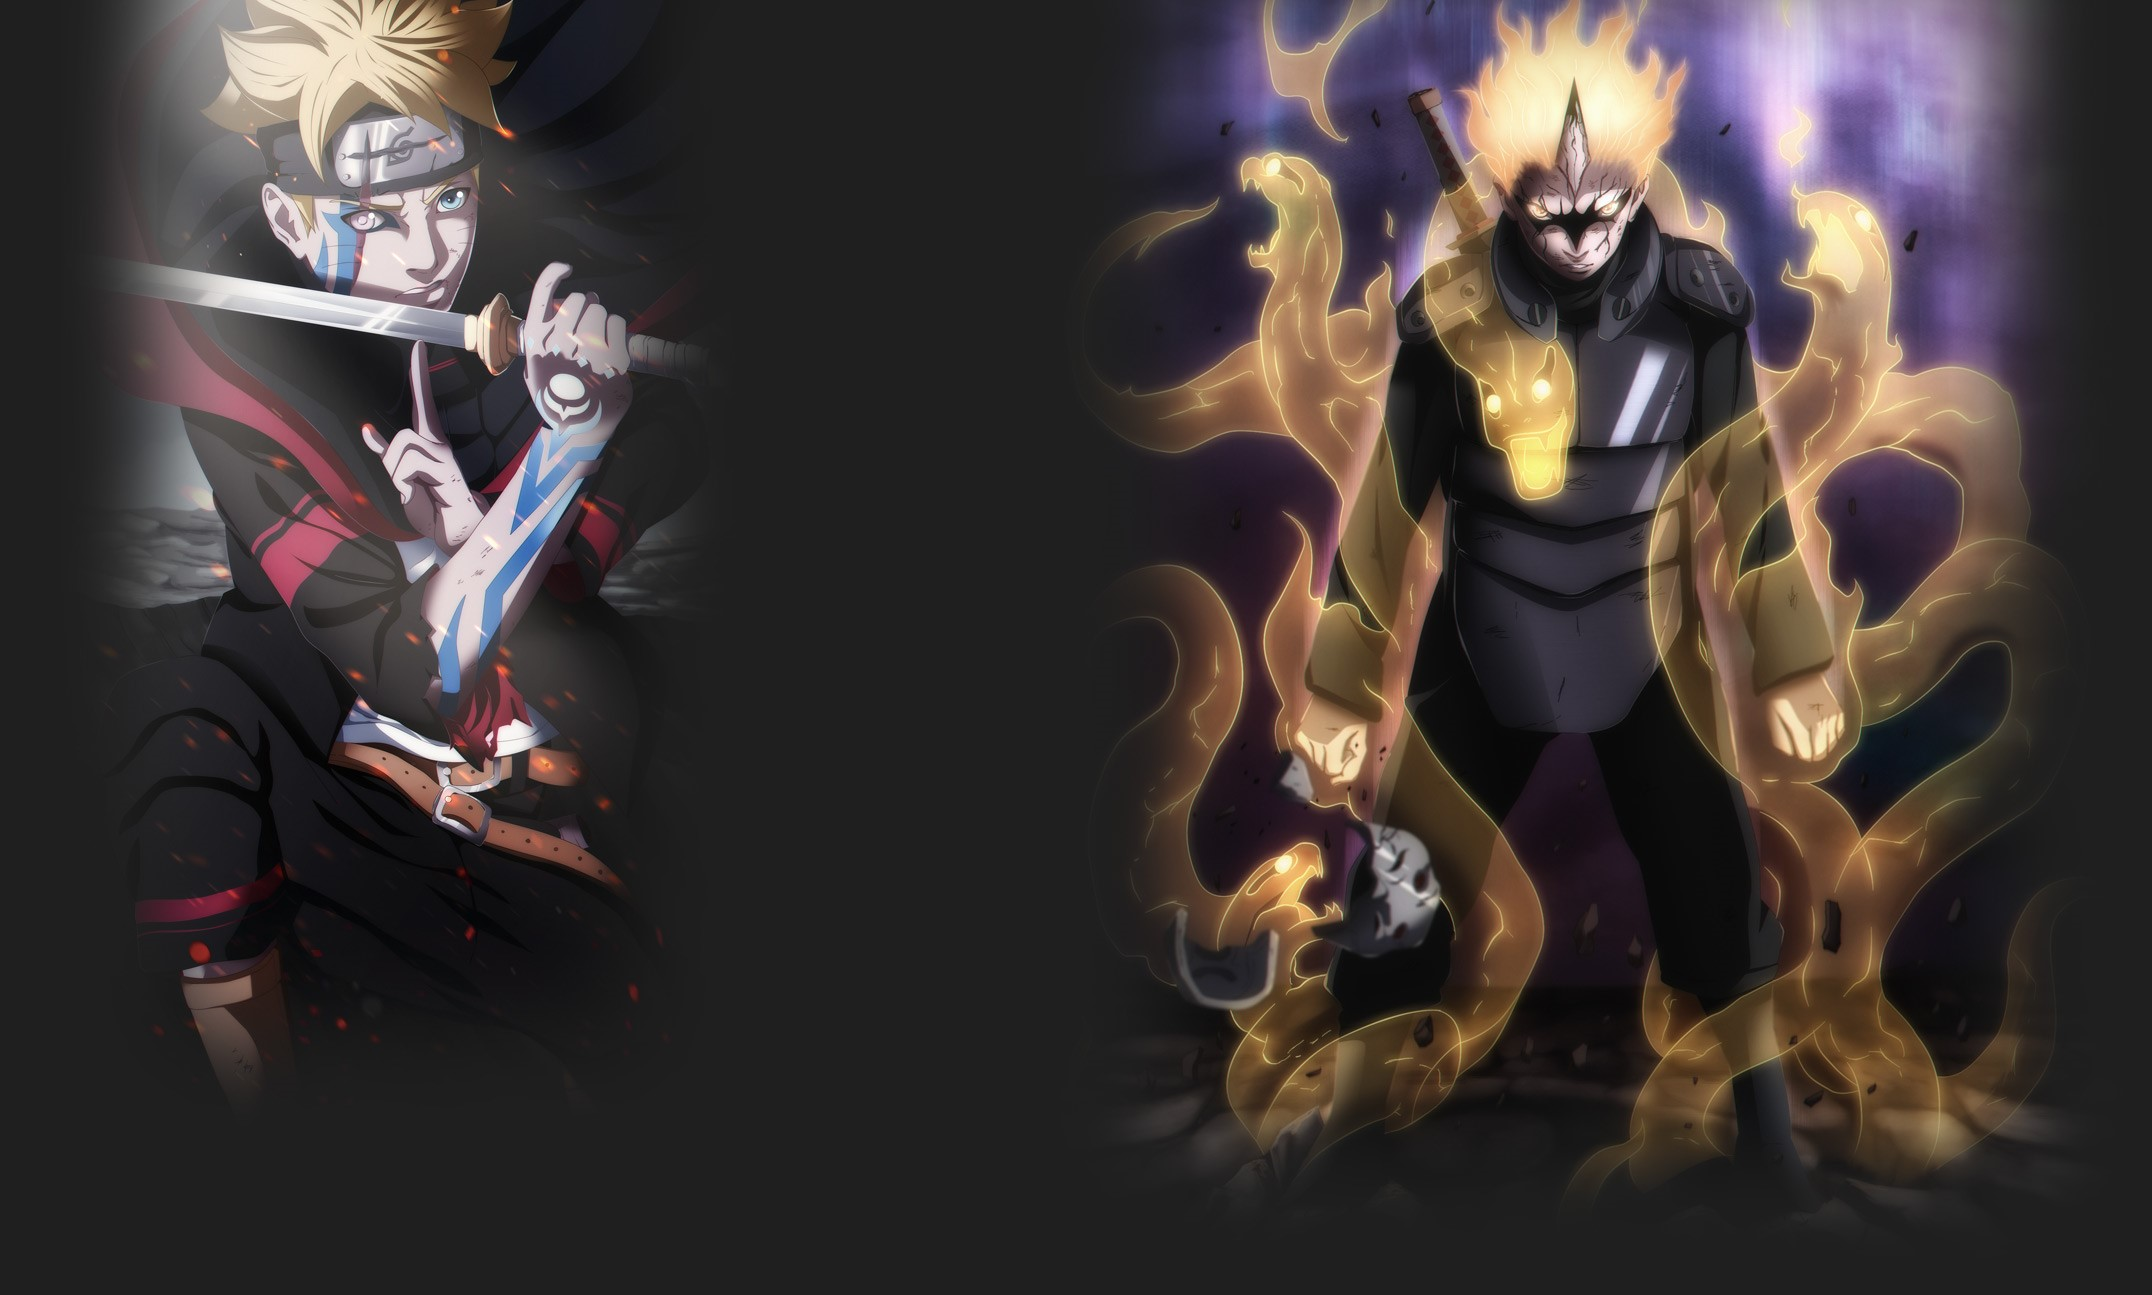
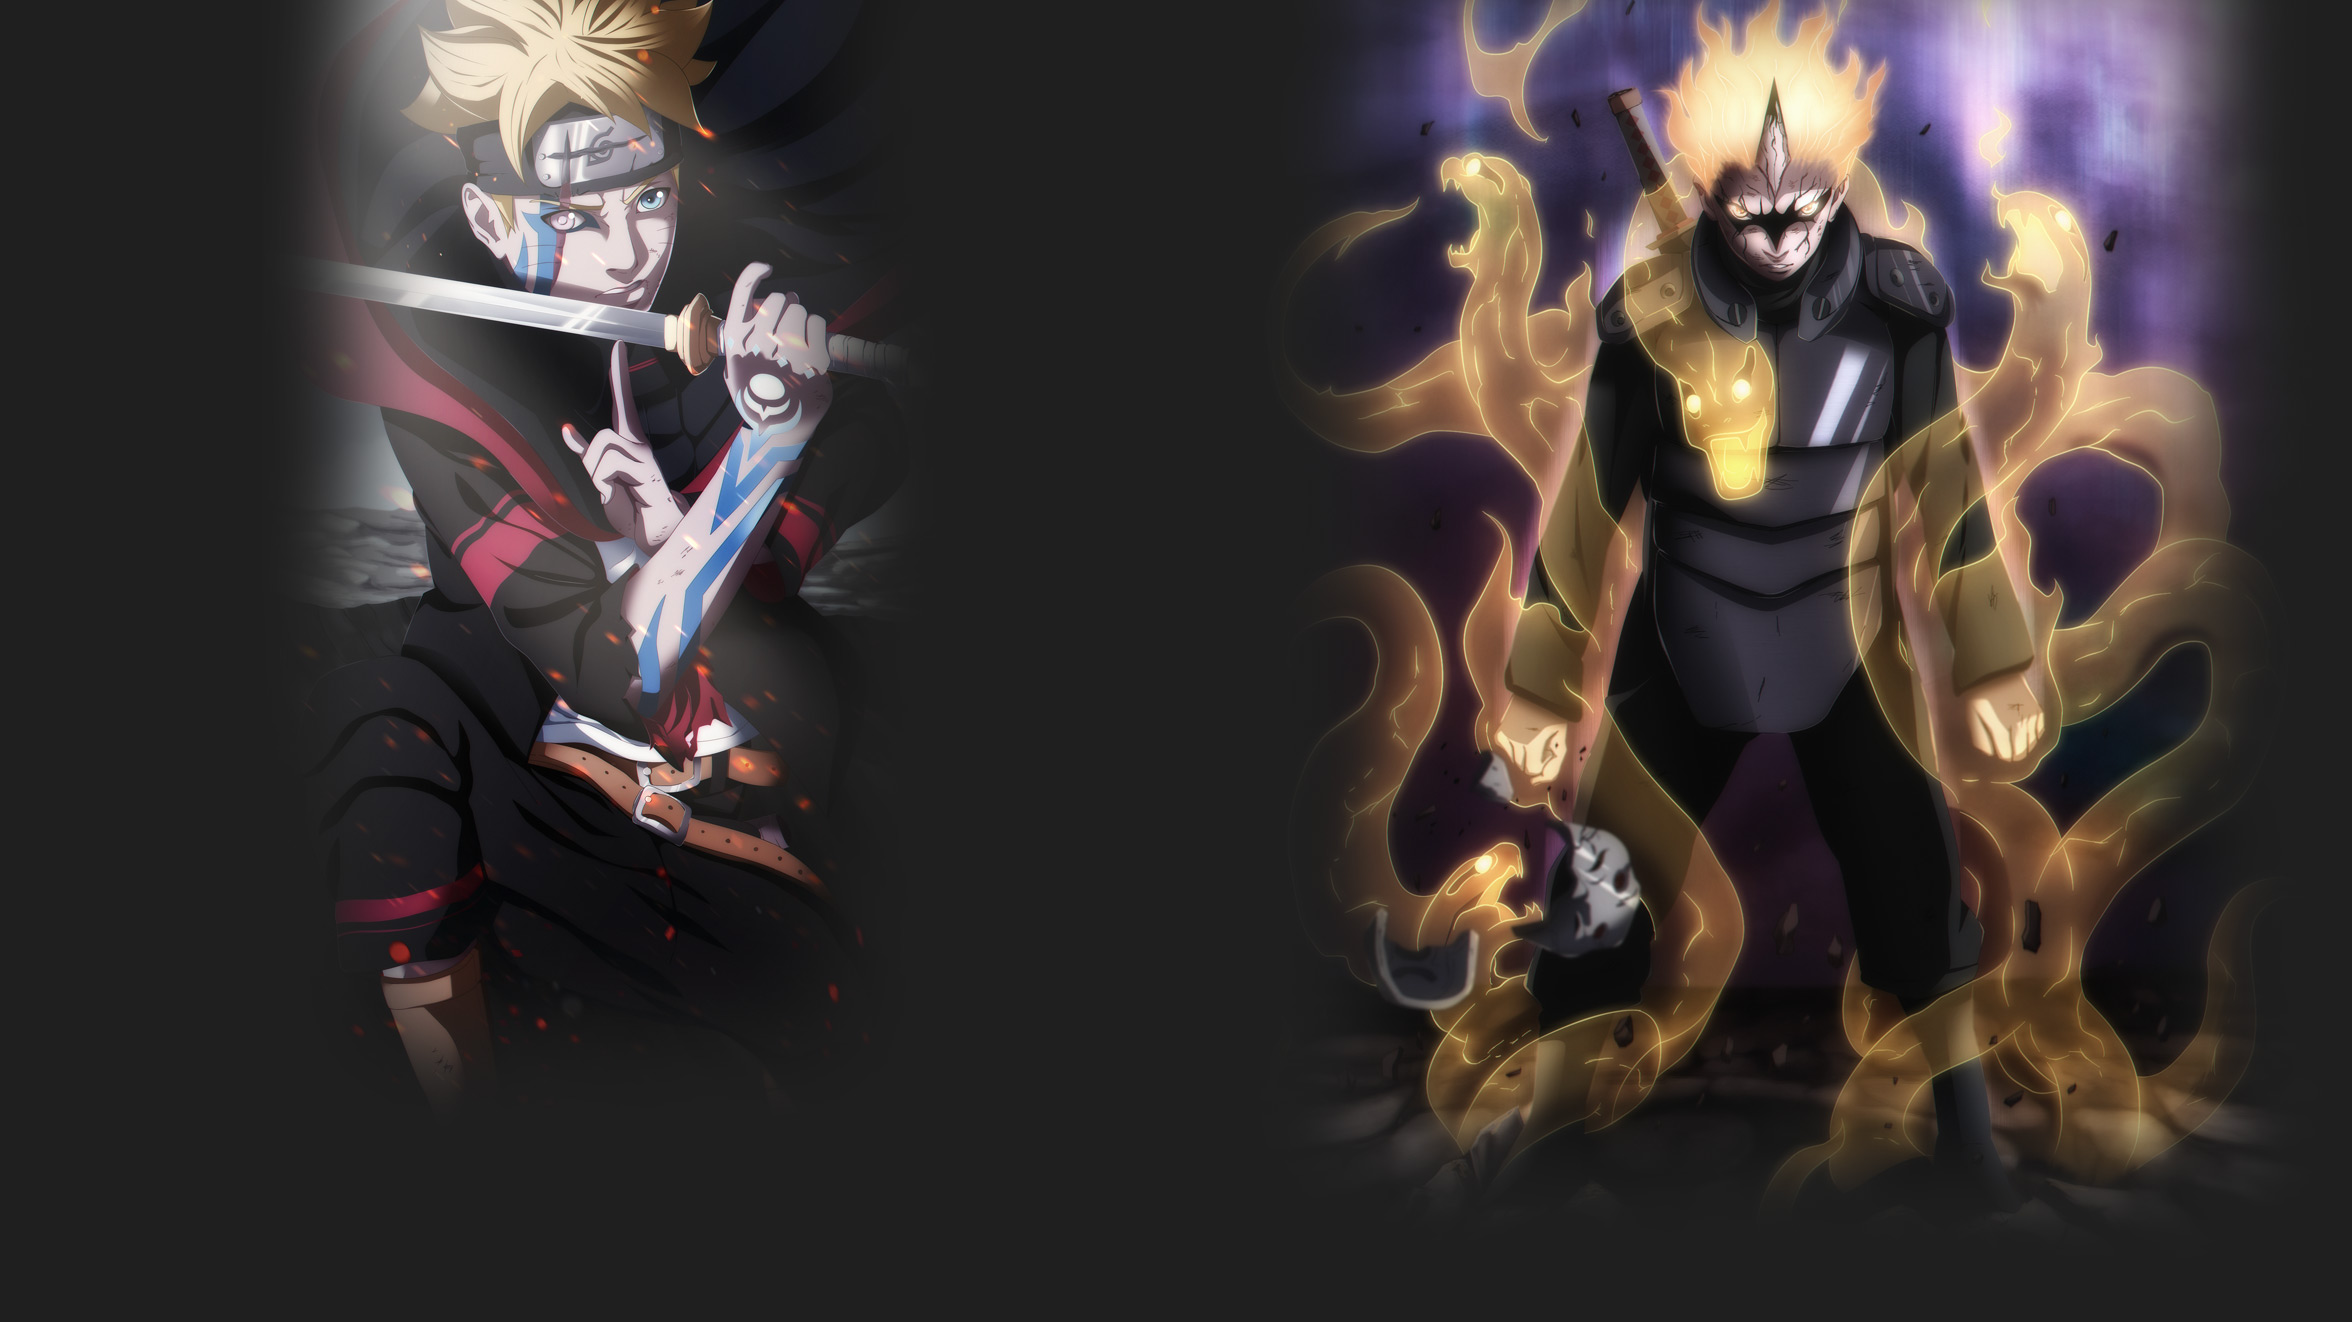
change back-position, rewrite videoPreview.vue and other small changes

diff --git a/pages/index.vue b/pages/index.vue
@@ -1,11 +1,12 @@
 <template>
-  <section class="section">
-    <div class="box primary_back grid" style="position: relative; z-index : 1">
+  <section>
 
-      <search :list=anime_list placeholder="e.g. Тёмный дворецкий" class = "col-start-2"/>
+    <div class="box primary_back" style="position: relative; z-index : 1" :style="{ 'max-width' : this.contentWidth }">
+
+      <search :list=anime_list placeholder="e.g. Тёмный дворецкий" class="col-start-2"/>
 
       <br/>
-      <b-button style = "float : right; bottom : 7px" type = "is-success">Найти</b-button>
+      <b-button style="float : right; bottom : 7px" type="is-success">Найти</b-button>
       <b-field>
         <b-switch v-model="isSwitchedCustom"
                   true-value="Войти на сайт"
@@ -40,10 +41,12 @@
       </b-modal>
 
     </div>
-    <div class="box secondary_back" style="position: relative; bottom : 35px; z-index : 0"><br>
-      <VideoPreview url="https://gen.jut.su/uploads/animethumbs/anime_nanatsu-no-taizai.jpg" title="7 Смертных грехов"
-                    time-code="16 серия (4 сезон)"
-                    redirect-page="/"/>
+    <div class="box secondary_back" style="position: relative; bottom : 35px; z-index : 0"
+         :style="{ 'max-width' : this.contentWidth }"><br>
+      <div v-for="preview in previews" :key="preview.title" class="anime_item">
+        <VideoPreview :url="preview.url" :title="preview.title" :redirect-page="preview.redirectPage"
+                      :time-code="preview.timeCode"/>
+      </div>
     </div>
   </section>
 </template>
@@ -59,6 +62,9 @@
   background: #1f1f1f !important;
 }
 
+.anime_item {
+  width: 280px
+}
 </style>
 
 <script>
@@ -74,7 +80,22 @@ export default {
       isSwitched: false,
       loginEmail: "",
       pwd: "",
-      anime_list: ['Моя геройская академия', 'Магическая битва', 'Атака Титанов', 'Тёмный дворецкий'].sort()
+      contentWidth: "",
+      anime_list: ['Моя геройская академия', 'Магическая битва', 'Атака Титанов', 'Тёмный дворецкий'].sort(),
+      previews: {
+        magicFight: {
+          url: "https://gen.jut.su/uploads/animethumbs/anime_jujutsu-kaisen.jpg",
+          title: "Магическая битва",
+          timeCode: "3 серия",
+          redirectPage: "/",
+        },
+        sevens: {
+          url: "https://gen.jut.su/uploads/animethumbs/anime_nanatsu-no-taizai.jpg",
+          title: "Семь смертных грехов",
+          timeCode: "16 серия (4 сезон)",
+          redirectPage: "/",
+        }
+      }
     }
   },
   components: {
@@ -95,6 +116,9 @@ export default {
     secondFieldCheck() {
       return (this.pwd.length < 9 && this.pwd !== "")
     }
+  },
+  mounted() {
+    this.contentWidth = (window.innerWidth - 980).toString() + "px";
   }
 }
 </script>

diff --git a/layouts/default.vue b/layouts/default.vue
@@ -18,9 +18,11 @@
       </div>
     </nav>
 
-    <section class="main-content columns"
-             :style="{'background-image': 'url(' + require('../assets/background_main.dark.jpg') + ')' }">
-      <div class="container column is-6 min-h-screen" style="background : transparent">
+    <!-- :style="{'background-image': 'url(' + require('../assets/background_main.dark.jpg') + ')' }" -->
+
+    <section class="main-content columns content-container"
+             >
+      <div class="container column is-6 min-h-screen">
         <br/><br/><br/><br/><br/>
         <nuxt/>
       </div>
@@ -51,14 +53,26 @@
   }
 }
 
+.content-container {
+  background: url(../assets/background_main.dark.jpg) no-repeat top, center;
+}
+
+body {
+  background: #1f1f1f;
+}
+
 </style>
 
 <script>
+
 export default {
   name: 'HomePage',
   data() {
     return {
-      prefix: "col-start-",
+      contentContainer: {
+        backgroundRepeat: "no-repeat",
+        background: "url(../assets/background_main.dark.jpg)"
+      },
       dropdowns: {
         types: {
           id: 0,

diff --git a/components/VideoPreview.vue b/components/VideoPreview.vue
@@ -1,6 +1,7 @@
 <template>
-  <nuxt-link :to = "redirectPage">
-    <div>
+  <div style = "width: 280px; height : 100px">
+
+    <nuxt-link :to="redirectPage">
       <b-image
         class='anime_image'
         :src="url"
@@ -8,12 +9,13 @@
         ratio="0.5by0.5"
         rounded
       ></b-image>
-      <div class="box anime_title">
+      <div class="box anime_title rounded-3xl">
         <span class='main_title'>&nbsp;{{ title }}</span>
         <span class='sub_title'>&nbsp;{{ timeCode }}</span>
       </div>
-    </div>
-  </nuxt-link>
+    </nuxt-link>
+
+  </div>
 </template>
 
 <script>
